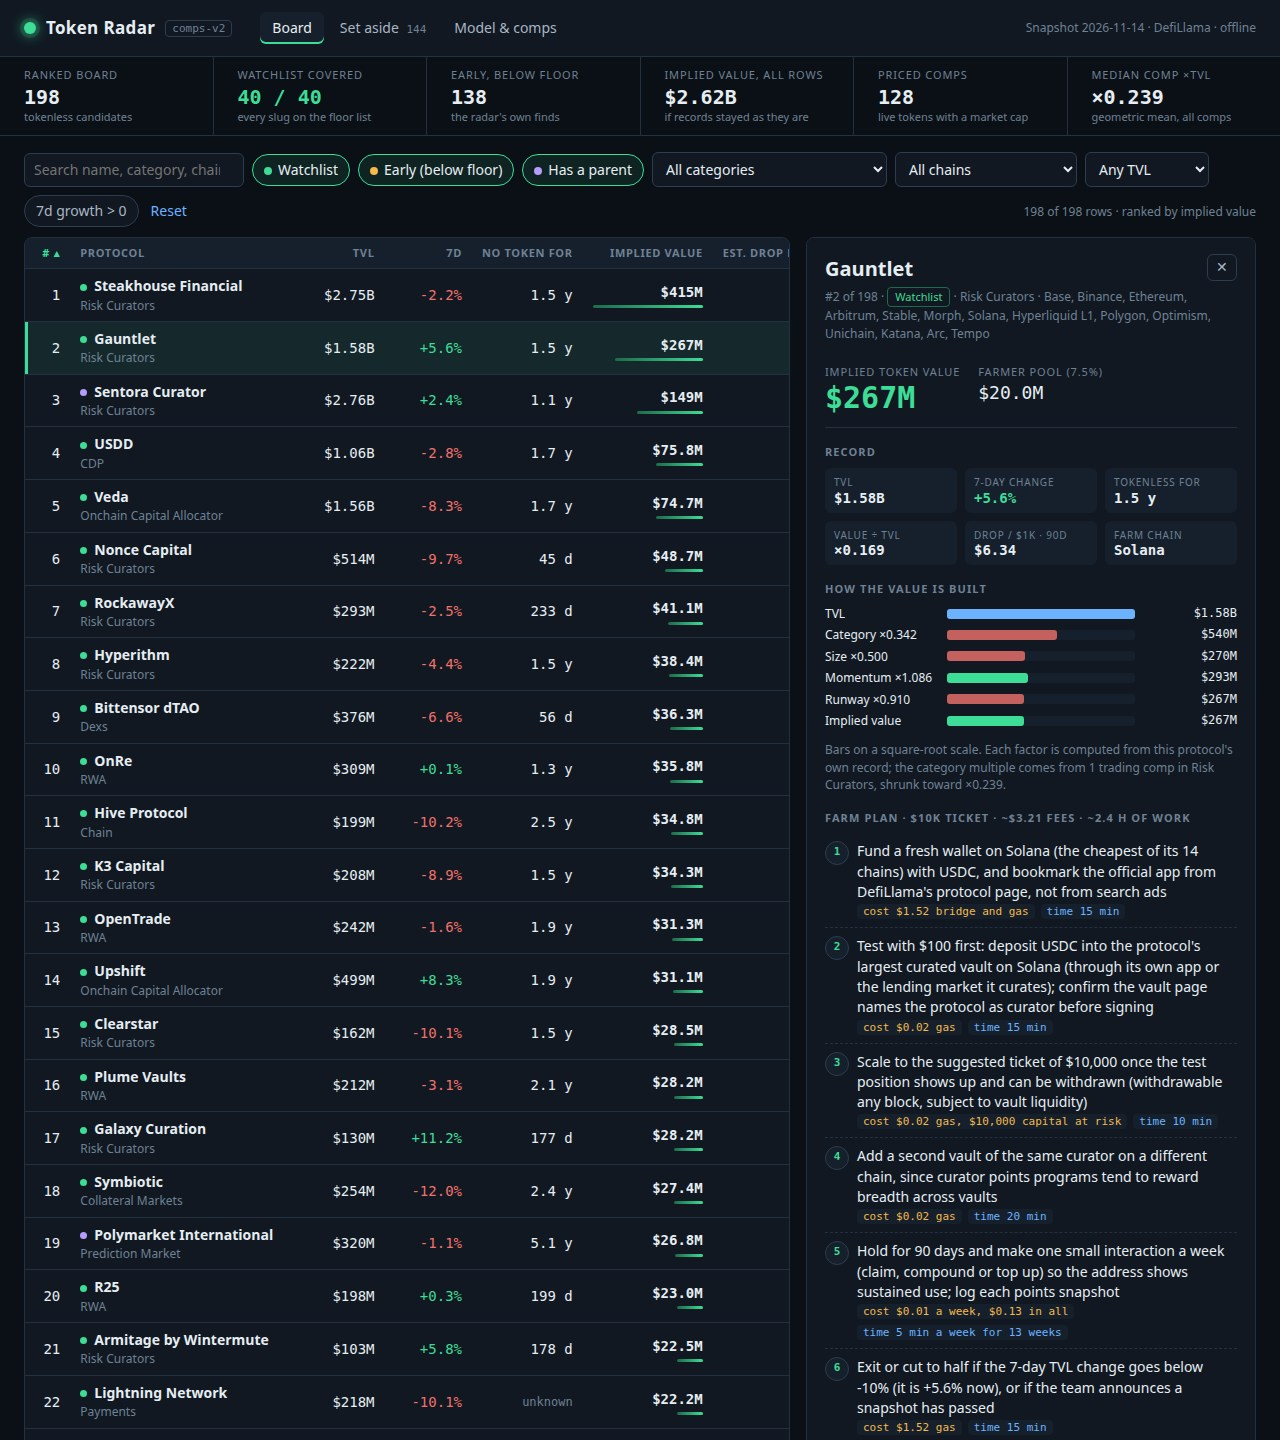
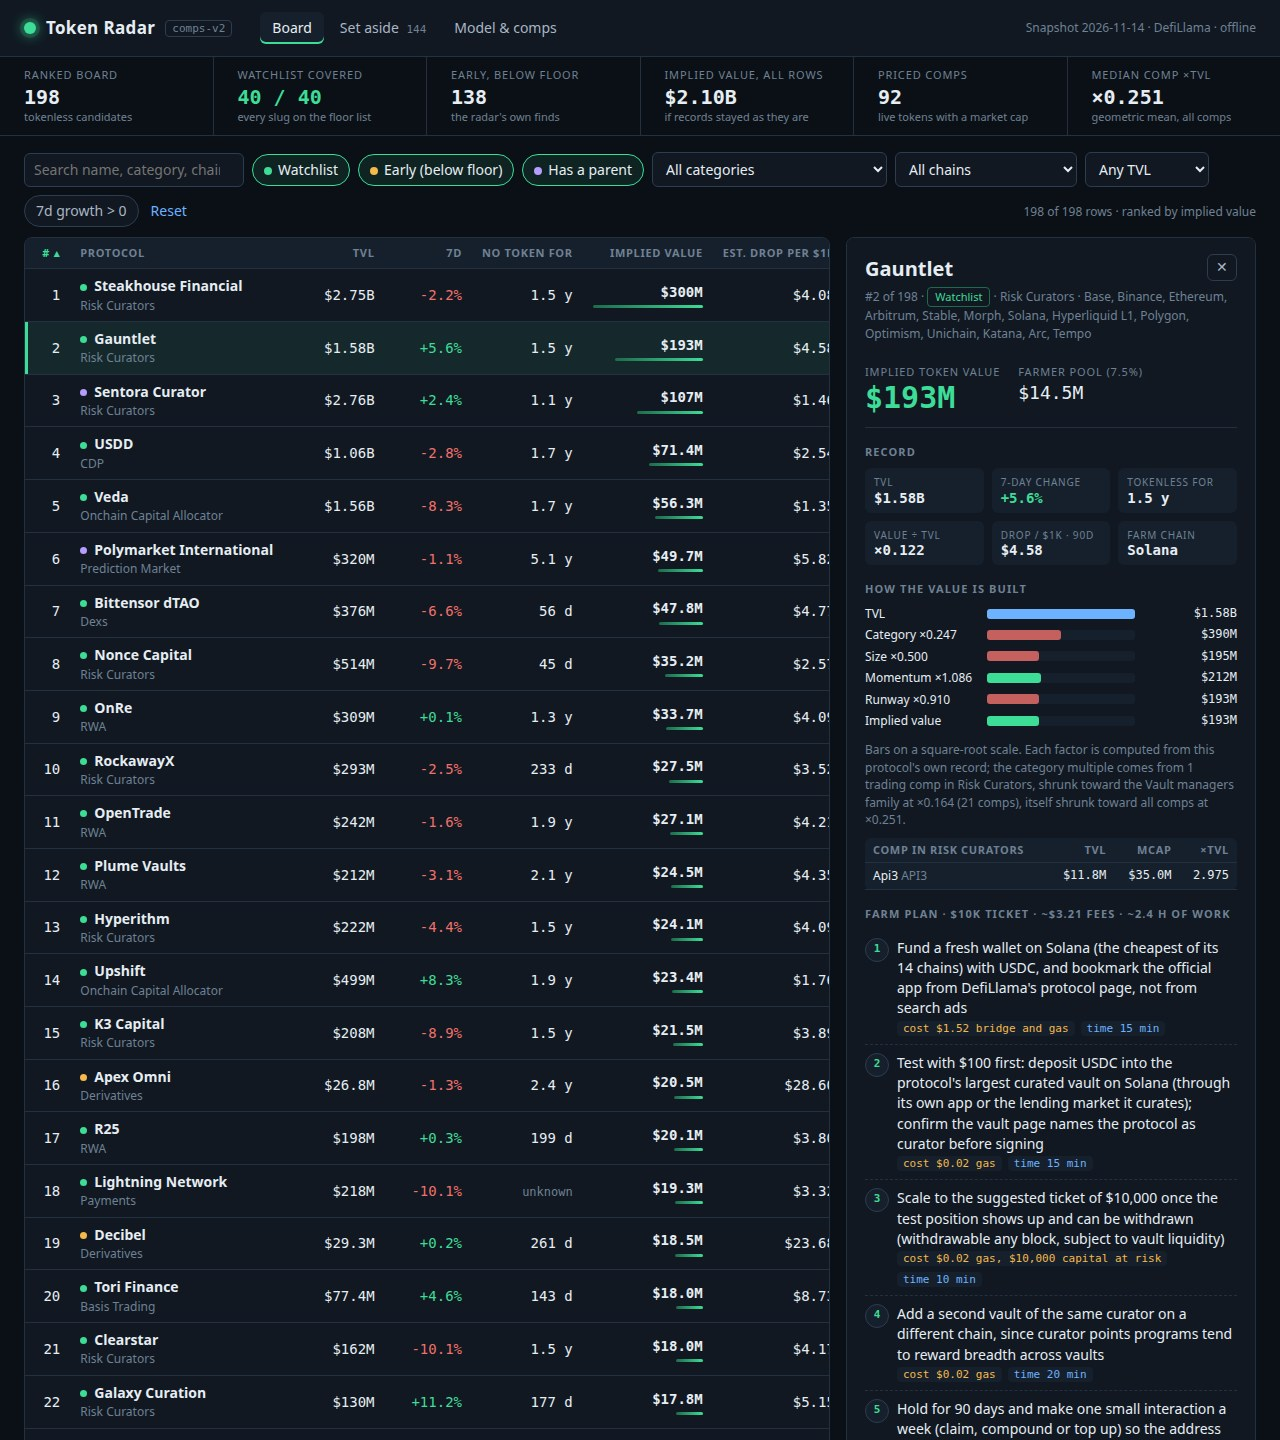
Comps hygiene and family shrinkage: one comp per token, category -> family -> all comps

diff --git a/dashboard/app.js b/dashboard/app.js
@@ -173,12 +173,25 @@
     var top = r.tvl_usd;
     return '<div class="wf">' + steps.map(function (s) {
       return '<div>' + esc(s[0]) + '</div><div class="t"><span class="' + s[2] + '" style="width:' + Math.max(0.6, Math.sqrt(s[1] / top) * 100).toFixed(1) + '%"></span></div><div class="x">' + money(s[1]) + '</div>';
-    }).join('') + '</div><div class="note">Bars on a square-root scale. Each factor is computed from this protocol\'s own record; the category multiple comes from ' + plural(catInfo(r.category).comps || 0, 'trading comp') + ' in ' + esc(r.category || 'Uncategorised') + ', shrunk toward ' + mult(R.calibration.global_multiple) + '.</div>';
+    }).join('') + '</div><div class="note">Bars on a square-root scale. Each factor is computed from this protocol\'s own record; the category multiple comes from ' + plural(catInfo(r.category).comps || 0, 'trading comp') + ' in ' + esc(r.category || 'Uncategorised') + ', shrunk toward the ' + esc(famInfo(catInfo(r.category).family).family) + ' family at ' + mult(famInfo(catInfo(r.category).family).multiple) + ' (' + plural(famInfo(catInfo(r.category).family).comps, 'comp') + '), itself shrunk toward all comps at ' + mult(R.calibration.global_multiple) + '.</div>';
+  }
+  function compsOf(r) {
+    var k = r.category || 'Uncategorised';
+    var cs = R.comps.filter(function (c) { return c.category === k; }).slice(0, 5);
+    if (!cs.length) return '<div class="note">No token in ' + esc(k) + ' trades with a market cap in this snapshot, so the all-comps multiple ' + mult(R.calibration.global_multiple) + ' is used.</div>';
+    return '<table class="mini"><thead><tr><th>Comp in ' + esc(k) + '</th><th class="r">TVL</th><th class="r">Mcap</th><th class="r">×TVL</th></tr></thead><tbody>' + cs.map(function (c) {
+      return '<tr><td>' + esc(c.name) + ' <span class="sub">' + esc(c.symbol || '') + '</span></td><td class="r num">' + money(c.tvl_usd) + '</td><td class="r num">' + money(c.mcap_usd) + '</td><td class="r num">' + c.ratio.toFixed(3) + '</td></tr>';
+    }).join('') + '</tbody></table>';
+  }
+  function famInfo(f) {
+    var fs = R.calibration.families;
+    for (var i = 0; i < fs.length; i++) if (fs[i].family === f) return fs[i];
+    return { family: 'Other', comps: 0, multiple: R.calibration.global_multiple };
   }
   function catInfo(c) {
     var k = c || 'Uncategorised';
     for (var i = 0; i < R.calibration.categories.length; i++) if (R.calibration.categories[i].category === k) return R.calibration.categories[i];
-    return { comps: 0, raw: null, multiple: R.calibration.global_multiple };
+    return { comps: 0, raw: null, family: 'Other', multiple: R.calibration.global_multiple };
   }
   function detail(r) {
     var p = r.plan, n = net(r), ev = r.est_per_1k_usd * p.ticketUsd / 1000;
@@ -192,6 +205,7 @@
       fact('TVL', money(r.tvl_usd)) + fact('7-day change', pct(r.change_7d)) + fact('Tokenless for', days(r.tokenless_days)) +
       fact('Value ÷ TVL', mult(r.implied_value_usd / r.tvl_usd)) + fact('Drop / $1k · 90d', '$' + r.est_per_1k_usd.toFixed(2)) + fact('Farm chain', esc(p.chain)) + '</div>' +
       '<h3>How the value is built</h3>' + waterfall(r) +
+      compsOf(r) +
       '<h3>Farm plan · ' + money(p.ticketUsd) + ' ticket · ~$' + p.costUsd.toFixed(2) + ' fees · ~' + p.hours + ' h of work</h3>' +
       '<ol class="steps">' + p.steps.map(function (s) {
         return '<li><div>' + esc(s.do) + '</div><div class="tags"><span class="tag c">cost ' + esc(s.cost) + '</span><span class="tag t">time ' + esc(s.time) + '</span></div></li>';
@@ -245,19 +259,20 @@
     var K = R.constants, C = R.calibration;
     var cats = C.categories.slice().sort(function (a, b) { return b.comps - a.comps || a.category.localeCompare(b.category); });
     app.innerHTML = '<div class="prose">' +
-      '<p>What would each protocol\'s token be worth if its record stayed exactly as the snapshot shows it? The model prices it against the snapshot\'s own ' + C.comps + ' protocols whose token trades with a market cap. No protocol is named in the code; every number below is recomputed from the snapshot on each run.</p>' +
+      '<p>What would each protocol\'s token be worth if its record stayed exactly as the snapshot shows it? The model prices it against the snapshot\'s own ' + C.comps + ' trading tokens: one comp per token, its market cap over the summed TVL of every product that carries it, leaving out tokens whose main product is a CEX, a bridge, a staking wrapper or a versioned fork. No protocol is named in the code; every number below is recomputed from the snapshot on each run.</p>' +
       '<div class="formula">implied = TVL × category multiple × size × momentum × runway × class<br>' +
-      'category multiple = exp( (Σ ln(mcap/TVL) of comps in category + ' + K.PRIOR_WEIGHT + ' × mean ln) / (n + ' + K.PRIOR_WEIGHT + ') ), all comps: ' + mult(C.global_multiple) + '<br>' +
+      'category multiple = exp( (Σ ln(mcap/TVL) of its comps + ' + K.PRIOR_WEIGHT + ' × family ln) / (n + ' + K.PRIOR_WEIGHT + ') ); family = the same toward all comps (' + mult(C.global_multiple) + ')<br>' +
+      'families: ' + C.families.map(function (f) { return esc(f.family) + ' ' + mult(f.multiple) + ' (' + f.comps + ')'; }).join(' · ') + '<br>' +
       'size = (TVL / ' + money(C.centre_tvl) + ')^' + C.slope + ' (least-squares fit on comps, ' + C.slope_raw + ' before clamping), kept in [' + K.SIZE_MIN + ', ' + K.SIZE_MAX + ']<br>' +
       'momentum = (1 + clamp(change_7d, ' + K.GROWTH_FLOOR + '%, +' + K.GROWTH_CAP + '%))^' + K.GROWTH_ELASTICITY + '<br>' +
       'runway = ' + K.RUNWAY_FLOOR + ' + ' + K.RUNWAY_RANGE + ' × (1 − e^(−days tokenless / ' + K.RUNWAY_TAU_DAYS + ')), unknown age: ' + C.unknown_age_days + ' d (median)<br>' +
       'class = 1 watchlist or early · ' + K.PARENTED_FACTOR + ' above floor but parented · ' + K.DERIVATIVE_FACTOR + ' derivative (set aside)<br>' +
       'drop per $1k = implied × ' + K.AIRDROP_SHARE + ' × $1,000 / TVL × ' + K.FARM_DAYS + '/' + K.SEASON_DAYS + ' days</div>' +
       '<p>Why these terms: the category multiple is the market\'s own price for a dollar of TVL in that kind of protocol; size corrects for small protocols trading richer per dollar; momentum gives credit for a week of net inflow; runway rewards a protocol that has held its TVL without paying anyone in tokens, the most honest sign of real demand. A token-bearing protocol is never on the board: it is a comp.</p></div>' +
-      '<div class="cols"><div><h3>Category multiples (shrunk)</h3><div class="tbl"><div class="scroll" style="max-height:440px"><table><thead><tr><th>Category</th><th class="r">Comps</th><th class="r">Raw</th><th class="r">Used</th></tr></thead><tbody>' +
-      cats.map(function (c) { return '<tr><td>' + esc(c.category) + '</td><td class="r num">' + c.comps + '</td><td class="r num sub">' + (c.raw == null ? '–' : c.raw.toFixed(3)) + '</td><td class="r num">' + c.multiple.toFixed(3) + '</td></tr>'; }).join('') +
+      '<div class="cols"><div><h3>Category multiples (shrunk)</h3><div class="tbl"><div class="scroll" style="max-height:440px"><table><thead><tr><th>Category</th><th>Family</th><th class="r">Comps</th><th class="r">Raw</th><th class="r">Used</th></tr></thead><tbody>' +
+      cats.map(function (c) { return '<tr><td>' + esc(c.category) + '</td><td class="sub">' + esc(c.family) + '</td><td class="r num">' + c.comps + '</td><td class="r num sub">' + (c.raw == null ? '–' : c.raw.toFixed(3)) + '</td><td class="r num">' + c.multiple.toFixed(3) + '</td></tr>'; }).join('') +
       '</tbody></table></div></div></div><div><h3>Trading comps, by market cap</h3><div class="tbl"><div class="scroll" style="max-height:440px"><table><thead><tr><th>Protocol</th><th>Category</th><th class="r">TVL</th><th class="r">Mcap</th><th class="r">×TVL</th></tr></thead><tbody>' +
-      R.comps.map(function (c) { return '<tr><td><span class="nm">' + esc(c.name) + '</span> <span class="sub">' + esc(c.symbol || '') + '</span></td><td class="sub">' + esc(c.category) + '</td><td class="r num">' + money(c.tvl_usd) + '</td><td class="r num">' + money(c.mcap_usd) + '</td><td class="r num">' + c.ratio.toFixed(3) + '</td></tr>'; }).join('') +
+      R.comps.map(function (c) { return '<tr><td><span class="nm">' + esc(c.name) + '</span> <span class="sub">' + esc(c.symbol || '') + (c.members > 1 ? ' · ' + c.members + ' products' : '') + '</span></td><td class="sub">' + esc(c.category) + '</td><td class="r num">' + money(c.tvl_usd) + '</td><td class="r num">' + money(c.mcap_usd) + '</td><td class="r num">' + c.ratio.toFixed(3) + '</td></tr>'; }).join('') +
       '</tbody></table></div></div></div></div>';
   }
 

diff --git a/lib/model.ts b/lib/model.ts
@@ -4,8 +4,10 @@
 // be worth? We answer by comparison with the snapshot's own protocols whose token already trades.
 //
 //   1. Comps. Every protocol that records a token AND a market cap gives one ratio, mcap / TVL. We take
-//      logs, average per category and shrink each category toward the all-comps mean with a prior of
-//      PRIOR_WEIGHT comps (empirical Bayes), so a category with two comps does not set its own price.
+//      logs and average them in two levels (empirical Bayes): each category is shrunk toward its family
+//      (vault managers, trading venues, credit, real-world assets, infrastructure) with a prior worth
+//      PRIOR_WEIGHT comps, and each family toward the all-comps mean the same way. A category with one
+//      odd comp therefore borrows its price from its peers instead of setting it alone.
 //   2. Size. Small protocols trade at richer multiples than large ones. We fit the slope of the
 //      log-ratio residual on log TVL across the comps by least squares, clamp it, and apply it.
 //   3. Momentum. The 7-day TVL change, clamped, raised to GROWTH_ELASTICITY: a week of inflow is
@@ -110,8 +112,24 @@ const median = (xs: number[]) => {
 };
 const r4 = (x: number) => Math.round(x * 10_000) / 10_000;
 
-export interface Comp { slug: string; name: string; category: string; symbol: string | null; tvl: number; mcap: number; ratio: number }
-export interface CategoryMultiple { category: string; comps: number; raw: number | null; multiple: number }
+export interface Comp { slug: string; name: string; category: string; symbol: string | null; tvl: number; mcap: number; ratio: number; members: number }
+export interface CategoryMultiple { category: string; family: string; comps: number; raw: number | null; multiple: number }
+export interface FamilyMultiple { family: string; comps: number; multiple: number }
+
+/** Categories grouped by how their protocols earn: a thin category borrows strength from its peers. */
+export const FAMILY: Record<string, string> = {
+  'Risk Curators': 'Vault managers', 'Onchain Capital Allocator': 'Vault managers', 'Yield Aggregator': 'Vault managers', Yield: 'Vault managers',
+  'Liquidity Manager': 'Vault managers', 'Options Vault': 'Vault managers', Farm: 'Vault managers', 'Leveraged Farming': 'Vault managers', Indexes: 'Vault managers',
+  Dexs: 'Trading venues', Derivatives: 'Trading venues', 'Prediction Market': 'Trading venues', 'Interest Rate Derivatives': 'Trading venues', Options: 'Trading venues', 'OTC Marketplace': 'Trading venues',
+  Lending: 'Credit & stablecoins', CDP: 'Credit & stablecoins', 'CDP Manager': 'Credit & stablecoins', 'Uncollateralized Lending': 'Credit & stablecoins',
+  'Dual-Token Stablecoin': 'Credit & stablecoins', 'Stablecoin Wrapper': 'Credit & stablecoins', 'Basis Trading': 'Credit & stablecoins', 'Algo-Stables': 'Credit & stablecoins',
+  'Stablecoin Issuer': 'Credit & stablecoins', 'Reserve Currency': 'Credit & stablecoins', 'Collateral Management': 'Credit & stablecoins',
+  Synthetics: 'Trading venues', Launchpad: 'Trading venues', 'NFT Marketplace': 'Trading venues',
+  RWA: 'Real-world assets', CeDeFi: 'Real-world assets', 'RWA Lending': 'Real-world assets', Payments: 'Real-world assets', 'Crypto Card Issuer': 'Real-world assets',
+  Chain: 'Infrastructure', Restaking: 'Infrastructure', 'Collateral Markets': 'Infrastructure', 'Staking Pool': 'Infrastructure', 'Anchor BTC': 'Infrastructure',
+  'Decentralized BTC': 'Infrastructure', Privacy: 'Infrastructure', Insurance: 'Infrastructure', 'Governance Incentives': 'Infrastructure', Oracle: 'Infrastructure',
+};
+export const familyOf = (cat: string) => FAMILY[cat] ?? 'Other';
 export interface Calibration {
   comps: Comp[];
   globalMultiple: number;
@@ -119,16 +137,47 @@ export interface Calibration {
   slopeRaw: number;
   logTvlCentre: number;
   categories: Record<string, CategoryMultiple>;
+  families: Record<string, FamilyMultiple>;
   unknownAgeDays: number;
 }
 
 /** Fit the multiples, the size slope and the unknown-age default from the snapshot itself. */
 export function calibrate(s: Snapshot): Calibration {
-  const comps: Comp[] = s.protocols
-    .filter((p) => hasToken(p) && p.mcap_usd !== null && p.mcap_usd > 0 && p.tvl_usd > 0)
-    .map((p) => ({ slug: p.slug, name: p.name, category: p.category ?? 'Uncategorised', symbol: p.symbol, tvl: p.tvl_usd, mcap: p.mcap_usd!, ratio: p.mcap_usd! / p.tvl_usd }));
+  // One comp per token. DefiLlama gives every product of a token (Aave V2 and V3, a chain and its bridge)
+  // the token's whole market cap, so protocols sharing a CoinGecko id (or symbol) are merged and their
+  // TVL summed; the comp is named by its largest member. A token whose largest member fails the
+  // watchlist rule (a CEX, a bridge, a liquid-staking wrapper, a versioned name) is dropped: its market
+  // cap prices an exchange, a chain or a base asset, not a dollar of protocol TVL.
+  const groups = new Map<string, SnapshotProtocol[]>();
+  for (const p of s.protocols) {
+    if (!hasToken(p) || p.tvl_usd <= 0) continue;
+    const key = p.gecko_id ?? `sym:${p.symbol}`;
+    groups.set(key, [...(groups.get(key) ?? []), p]);
+  }
+  const comps: Comp[] = [];
+  for (const members of groups.values()) {
+    const lead = [...members].sort((a, b) => b.tvl_usd - a.tvl_usd || a.slug.localeCompare(b.slug))[0]!;
+    const mcap = Math.max(...members.map((m) => m.mcap_usd ?? 0));
+    if (mcap <= 0 || ruleFailure(lead) !== null) continue;
+    const tvl = members.reduce((a, m) => a + m.tvl_usd, 0);
+    comps.push({ slug: lead.slug, name: lead.name, category: lead.category ?? 'Uncategorised', symbol: lead.symbol, tvl, mcap, ratio: mcap / tvl, members: members.length });
+  }
   const lr = (c: Comp) => Math.log(clamp(c.ratio, K.RATIO_MIN, K.RATIO_MAX));
   const globalLog = comps.reduce((a, c) => a + lr(c), 0) / Math.max(1, comps.length);
+
+  // Two-level empirical Bayes: a category is shrunk toward its family, a family toward all comps.
+  const famOf = (cat: string) => familyOf(cat);
+  const byFam = new Map<string, Comp[]>();
+  for (const c of comps) byFam.set(famOf(c.category), [...(byFam.get(famOf(c.category)) ?? []), c]);
+  const families: Record<string, FamilyMultiple> = {};
+  const famLog = new Map<string, number>();
+  for (const fam of [...new Set([...Object.values(FAMILY), 'Other'])].sort()) {
+    const fs = byFam.get(fam) ?? [];
+    const sum = fs.reduce((a, c) => a + lr(c), 0);
+    const shrunk = fam === 'Other' ? globalLog : (sum + K.PRIOR_WEIGHT * globalLog) / (fs.length + K.PRIOR_WEIGHT);
+    famLog.set(fam, shrunk);
+    families[fam] = { family: fam, comps: fs.length, multiple: r4(Math.exp(shrunk)) };
+  }
 
   const byCat = new Map<string, Comp[]>();
   for (const c of comps) byCat.set(c.category, [...(byCat.get(c.category) ?? []), c]);
@@ -138,9 +187,10 @@ export function calibrate(s: Snapshot): Calibration {
   for (const cat of [...allCats].sort()) {
     const cs = byCat.get(cat) ?? [];
     const sum = cs.reduce((a, c) => a + lr(c), 0);
-    const shrunk = (sum + K.PRIOR_WEIGHT * globalLog) / (cs.length + K.PRIOR_WEIGHT);
+    const prior = famLog.get(famOf(cat))!;
+    const shrunk = (sum + K.PRIOR_WEIGHT * prior) / (cs.length + K.PRIOR_WEIGHT);
     catLog.set(cat, shrunk);
-    categories[cat] = { category: cat, comps: cs.length, raw: cs.length ? r4(Math.exp(sum / cs.length)) : null, multiple: r4(Math.exp(shrunk)) };
+    categories[cat] = { category: cat, family: famOf(cat), comps: cs.length, raw: cs.length ? r4(Math.exp(sum / cs.length)) : null, multiple: r4(Math.exp(shrunk)) };
   }
 
   // Least-squares slope of the residual (log ratio minus its category's shrunk mean) on centred log TVL.
@@ -162,6 +212,7 @@ export function calibrate(s: Snapshot): Calibration {
     slopeRaw: r4(slopeRaw),
     logTvlCentre,
     categories,
+    families,
     unknownAgeDays: Math.round(median(ages)),
   };
 }

diff --git a/lib/board.ts b/lib/board.ts
@@ -58,10 +58,10 @@ export function buildRadar(s: Snapshot) {
   const radar = {
     model: MODEL_VERSION, as_of: s.as_of, source: s.source, floor_usd: s.floor_usd, constants: K, class_label: CLASS_LABEL,
     counts: { protocols: s.protocols.length, live: s.protocols.length - priced.length, tokenless: priced.length, board: board.length, watch: s.watchlist.length, set_aside: setAside.length },
-    calibration: { comps: cal.comps.length, global_multiple: cal.globalMultiple, slope: cal.slope, slope_raw: cal.slopeRaw, centre_tvl: Math.round(Math.exp(cal.logTvlCentre)), unknown_age_days: cal.unknownAgeDays, categories: Object.values(cal.categories).filter((c) => c.comps > 0 || board.some((r) => (r.category ?? 'Uncategorised') === c.category)) },
+    calibration: { comps: cal.comps.length, global_multiple: cal.globalMultiple, slope: cal.slope, slope_raw: cal.slopeRaw, centre_tvl: Math.round(Math.exp(cal.logTvlCentre)), unknown_age_days: cal.unknownAgeDays, families: Object.values(cal.families), categories: Object.values(cal.categories).filter((c) => c.comps > 0 || board.some((r) => (r.category ?? 'Uncategorised') === c.category)) },
     rows: board.map((r) => ({ ...r, farm_steps: undefined, plan: plans[r.slug] })),
     set_aside: setAside.map(({ p, v }) => ({ slug: p.slug, name: p.name, category: p.category, tvl_usd: p.tvl_usd, change_7d: p.change_7d, reason: ruleFailure(p), implied_value_usd: v.implied })),
-    comps: cal.comps.slice(0, 60).map((c) => ({ slug: c.slug, name: c.name, symbol: c.symbol, category: c.category, tvl_usd: c.tvl, mcap_usd: c.mcap, ratio: Math.round(c.ratio * 1000) / 1000 })),
+    comps: cal.comps.filter((c, i) => i < 60 || board.some((r) => (r.category ?? 'Uncategorised') === c.category)).map((c) => ({ slug: c.slug, name: c.name, symbol: c.symbol, category: c.category, tvl_usd: c.tvl, mcap_usd: c.mcap, ratio: Math.round(c.ratio * 1000) / 1000, members: c.members })),
   };
   return { board, radar };
 }

diff --git a/dashboard/app.css b/dashboard/app.css
@@ -115,12 +115,17 @@ ol.steps .tags { display: flex; gap: 6px; flex-wrap: wrap; }
 .stance { background: rgba(245, 184, 75, .08); border-left: 3px solid var(--amber); padding: 8px 10px; border-radius: 0 6px 6px 0; font-size: 13px; color: var(--ink-2); margin-top: 12px; }
 .note { color: var(--ink-3); font-size: 12px; margin-top: 12px; }
 
+.mini { margin-top: 10px; font-size: 12px; background: var(--panel-2); border-radius: 6px; }
+.mini th, .mini td { padding: 4px 8px; position: static; background: none; }
 .prose { max-width: 1100px; }
 .prose p { color: var(--ink-2); }
 .formula { font: 13px/1.7 var(--mono); background: var(--panel); border: 1px solid var(--line); border-radius: var(--r); padding: 12px 16px; color: var(--ink); }
 .cols { display: grid; grid-template-columns: 1fr 1fr; gap: 16px; }
 .empty { padding: 40px; text-align: center; color: var(--ink-3); }
 
+@media (max-width: 1300px) {
+  .split { grid-template-columns: minmax(0, 1fr) 410px; }
+}
 @media (max-width: 1100px) {
   .split { grid-template-columns: 1fr; }
   .kpis { grid-template-columns: repeat(3, 1fr); }
